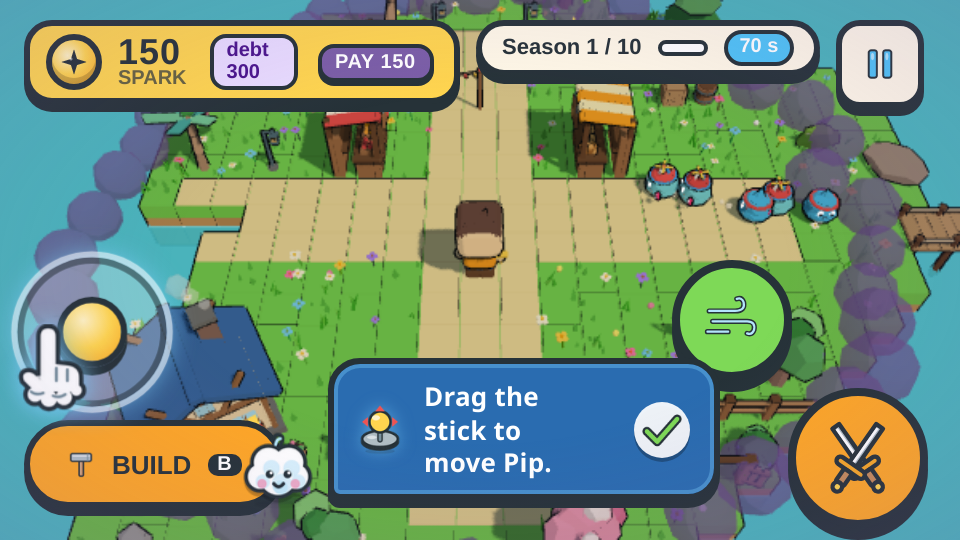
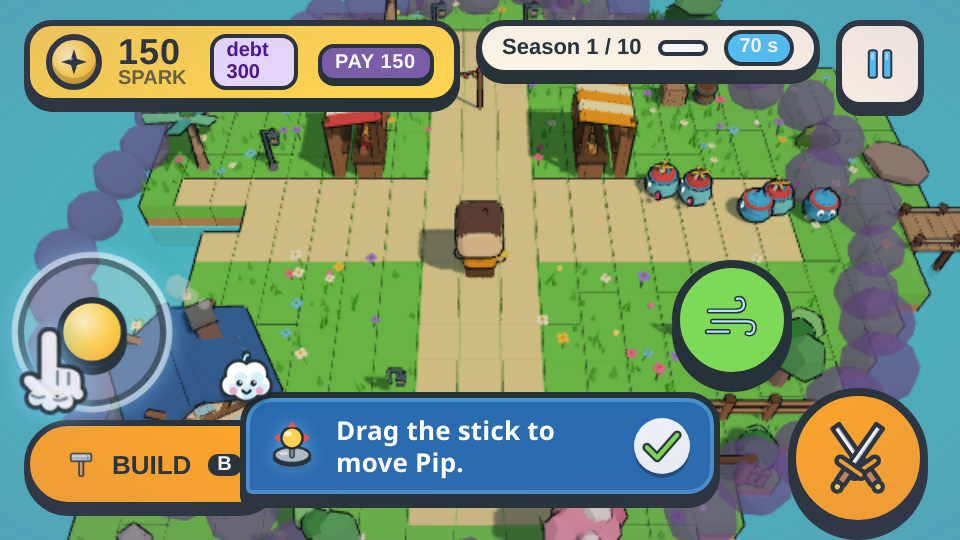
S61-B/E: aheadPoint pure helper + test (12/12), notch-safe tutor CSS

diff --git a/LUMEN/game/ui/tutor.css b/LUMEN/game/ui/tutor.css
@@ -4,7 +4,7 @@
 :root { --tut-bg: #2A6CB0; --tut-ink: #FFFFFF; --tut-edge: #7FD3FF; }   /* S59-E: opaque blue (was 90 % glass) so the black border reads on the busy island */
 
 .ll-tutor { position: absolute; z-index: 33; left: 50%; bottom: calc(max(10px, env(safe-area-inset-bottom)) + 84px); transform: translateX(-50%) translateY(10px);
-  display: flex; align-items: flex-end; gap: 6px; max-width: min(88vw, 400px);
+  display: flex; align-items: flex-end; gap: 6px; max-width: min(88vw, 400px, calc(100vw - env(safe-area-inset-left) - env(safe-area-inset-right) - 24px));
   opacity: 0; pointer-events: none; transition: opacity .22s ease, transform .32s cubic-bezier(.34,1.56,.64,1);
   font: 600 14px/1.25 system-ui, -apple-system, 'Segoe UI', sans-serif; letter-spacing: .1px; text-align: left; }
 .ll-tutor.show { opacity: 1; transform: translateX(-50%) translateY(0); }
@@ -53,7 +53,7 @@
 
 /* ---- S60-A: SIMULATED JOYSTICK (touch) / WASD keycaps (desktop). Drawn like the real stick in ui/touch.css; the cloud hand drags the knob up-right and back,
    so a phone player SEES that a thumb-stick exists and where to put the thumb. Steps aside (.hide) the moment the real stick is touched. */
-.ll-tutor-joy { position: absolute; z-index: 34; left: 15%; bottom: 128px; width: 100px; height: 100px; display: none; pointer-events: none; transition: opacity .2s; }
+.ll-tutor-joy { position: absolute; z-index: 34; left: max(15%, calc(env(safe-area-inset-left) + 12px)); bottom: 128px; width: 100px; height: 100px; display: none; pointer-events: none; transition: opacity .2s; }
 .ll-tutor-joy.show { display: block; }
 .ll-tutor-joy.hide { opacity: 0; }
 .ll-tutor-joy .tj-base, .ll-tutor-joy .tj-hand { display: none; }
@@ -76,21 +76,21 @@
 /* desktop: four keycaps in a WASD cross; W breathes ("forward") */
 .ll-tutor-joy .tj-keys { display: none; position: absolute; left: 0; top: 0; width: 100px; height: 80px; }
 .ll-tutor-joy.keys .tj-keys { display: block; }
-.ll-tutor-joy.keys { left: 24px; bottom: 150px; }
+.ll-tutor-joy.keys { left: max(24px, calc(env(safe-area-inset-left) + 12px)); bottom: 150px; }
 .tj-keys b { position: absolute; width: 30px; height: 30px; display: grid; place-items: center; border-radius: 8px; background: #fff; color: var(--ink, #263238); border: 3px solid var(--ink, #263238); box-shadow: 0 3px 0 var(--ink, #263238); font: 900 15px/1 system-ui, sans-serif; }
 .tj-keys .k-w { left: 35px; top: 0; animation: tj-key 1.4s ease-in-out infinite; } .tj-keys .k-a { left: 2px; top: 36px; } .tj-keys .k-s { left: 35px; top: 36px; } .tj-keys .k-d { left: 68px; top: 36px; }
 @keyframes tj-key { 0%, 100% { transform: translateY(0); background: #fff; } 50% { transform: translateY(3px); box-shadow: 0 0 0 var(--ink, #263238); background: var(--gold, #FFC93C); } }
 /* phone landscape: sits in the left thumb zone, above the Build button, clear of the tutor card (bottom-centre) and the 'drag to move' label */
-@media (max-height: 460px) { .ll-tutor-joy { left: 11%; bottom: 76px; width: 88px; height: 88px; } .ll-tutor-joy .tj-knob { width: 40px; height: 40px; margin: -20px 0 0 -20px; } .ll-tutor-joy .tj-hand, .ll-tutor-joy .tj-hand .ll-ico { width: 52px; height: 52px; margin-left: -26px; } .ll-tutor-joy.keys { left: 16px; bottom: 90px; } }
+@media (max-height: 460px) { .ll-tutor-joy { left: max(11%, calc(env(safe-area-inset-left) + 12px)); bottom: 76px; width: 88px; height: 88px; } .ll-tutor-joy .tj-knob { width: 40px; height: 40px; margin: -20px 0 0 -20px; } .ll-tutor-joy .tj-hand, .ll-tutor-joy .tj-hand .ll-ico { width: 52px; height: 52px; margin-left: -26px; } .ll-tutor-joy.keys { left: max(16px, calc(env(safe-area-inset-left) + 12px)); bottom: 90px; } }
 @media (prefers-reduced-motion: reduce) { .ll-tutor-joy .tj-base, .ll-tutor-joy .tj-ring, .ll-tutor-joy .tj-knob, .ll-tutor-joy .tj-hand, .ll-tutor-joy .tj-hand .ll-hand-a, .ll-tutor-joy .tj-hand .ll-hand-b, .tj-keys .k-w { animation: none; } .ll-tutor-joy .tj-hand .ll-hand-b { opacity: 0; } }
 body.tj-on .ll-joy-hint { opacity: 0 !important; }   /* S60-A: the drawn stick demo replaces the text label while it plays */
 
 /* S61-A: very small phones (<= 360 px tall, e.g. 640x360 / 568x320 / 480x270). The centred card is up to 56vw wide and ~71 px tall there, so the 88 px stick demo
    (left 11 %) used to touch it at 480x270. Smaller stick (72 px) pinned to the left margin: it ends at x = 82 px, the card starts at x >= 120 px. Travel scales with the stick. */
-@media (max-height: 360px) { .ll-tutor-joy { left: 10px; bottom: 68px; width: 72px; height: 72px; --tj-dx: 19px; --tj-dy: -21px; }
+@media (max-height: 360px) { .ll-tutor-joy { left: max(10px, calc(env(safe-area-inset-left) + 8px)); bottom: 68px; width: 72px; height: 72px; --tj-dx: 19px; --tj-dy: -21px; }
   .ll-tutor-joy .tj-knob { width: 34px; height: 34px; margin: -17px 0 0 -17px; }
   .ll-tutor-joy .tj-hand, .ll-tutor-joy .tj-hand .ll-ico { width: 44px; height: 44px; margin-left: -22px; margin-top: -4px; }
-  .ll-tutor-joy.keys { left: 12px; bottom: 76px; } }
+  .ll-tutor-joy.keys { left: max(12px, calc(env(safe-area-inset-left) + 8px)); bottom: 76px; } }
 
 /* S61-A2: on very short screens (<= 300 px tall: 480x270, 360x240) the Cloud avatar beside the card used to land on the BUILD button label. It becomes a small badge
    perched on the card's top-left corner instead, so the card is narrower-by-nothing and never reaches the Build button. */

diff --git a/LUMEN/game/src/Game.js b/LUMEN/game/src/Game.js
@@ -20,6 +20,7 @@ import { installVerbChain } from './systems/verbChain.js';
 import { installCrew } from './systems/crewJobs.js';   // T3: crew do visible jobs (arrival, post, idle/work loop, payoff pops, Ledger crew line)
 import { createScamJournal } from './systems/scamJournal.js';   // T5: sticker book of every deal met (spotted / fell for it)
 import { createJarRemind } from './systems/jarRemind.js';           // S59-H: tell the player to place the other jars; again next season if ignored
+import { aheadPoint } from './systems/aheadPoint.js';
 import { installCuriosity } from './systems/curiosityWire.js';   // T2: curiosity guide — registry sources (jars, stalls, signs, tills, Collectors, Baron, stranger, crew)
 import { WHEN as POWER_WHEN, lockedLine } from './systems/powerAnswers.js';   // T2b: every power press answers in ≤ 8 words
 import { installUnlocks, starsFor } from './systems/unlocks.js';                          // 41D: 2 starters + 4 earned by ledger stars
@@ -822,13 +823,8 @@ export function createLumenGame(game, opts = {}) {
     const near = (arr, pick) => { let best = null, bd = Infinity; for (const o of arr || []) { const q = pick ? pick(o) : xz(o); if (!q) continue; const d = hp ? Math.hypot(q.x - hp.x, q.z - hp.z) : 0; if (d < bd) { bd = d; best = q; } } return best; };
     if (kind === 'hero') return hp ? { x: hp.x, z: hp.z } : null;
     // S60-A: 'go there' marker for the Move step, ~6 u away (3 u landed on Pip's own legs). Tries screen-up (-z, toward the stalls), then the sides, then the plaza centre; always on LAND and clear of buildings.
-    if (kind === 'ahead') { if (!hp) return null; const isl = sb.island, occ = (x, z) => !!sb.build?.occupied?.(x, z); const D = 6;
-      // S61-B: 'up' is read from the CAMERA (ground-projected forward = screen-up), so a rotated camera still gets a marker that reads as 'go up the screen'. Mock / missing camera -> -z (the fixed ¾ rig looks down -z).
-      let ux = 0, uz = -1; try { const c = game.camera?.three || game.camera; const o = c?.position, t = game.camera?.lookAt; if (o && t && Number.isFinite(o.x) && Number.isFinite(t.x)) { const fx = t.x - o.x, fz = t.z - o.z, fl = Math.hypot(fx, fz); if (fl > 1e-3) { ux = fx / fl; uz = fz / fl; } } } catch (_) {}
-      const rot = (a, b, k) => [a * Math.cos(k) - b * Math.sin(k), a * Math.sin(k) + b * Math.cos(k)];   // rotate the (ux,uz) unit vector by k rad (0.64 rad ~ the 0.6/-0.8 diagonals)
-      const dirs = [0, 0.64, -0.64, 1.571, -1.571, 3.142].map((k) => rot(ux, uz, k));
-      for (const [dx, dz] of dirs) { const x = hp.x + dx * D, z = hp.z + dz * D; if ((!isl?.isLand || isl.isLand(x, z)) && !occ(x, z)) return { x, z, y: 0.2 }; }
-      const d = Math.hypot(hp.x, hp.z) || 1; return { x: hp.x - hp.x / d * Math.min(D, d), z: hp.z - hp.z / d * Math.min(D, d), y: 0.2 }; }
+    if (kind === 'ahead') { if (!hp) return null; const c = game.camera?.three || game.camera, isl = sb.island;   // S61-B: pure helper (src/systems/aheadPoint.js) reads screen-up from the camera, so a rotated camera still points up the screen
+      return aheadPoint({ hero: hp, camPos: c?.position, camLook: game.camera?.lookAt, isLand: isl?.isLand ? (x, z) => isl.isLand(x, z) : null, occupied: (x, z) => !!sb.build?.occupied?.(x, z), dist: 6 }); }
     if (kind === 'coin') { const q = near(sb.coins); return q ? { ...q, y: 0.35 } : null; }
     if (kind.startsWith('jar:')) { const m = sb.jarsWorld?.get?.(kind.slice(4)); const q = xz(m); return q ? { ...q, y: 1.4 } : null; }
     if (kind === 'jar') { const J = sb.jarsWorld; return near((J?.ids?.() || []).map((id) => J.get(id))); }

diff --git a/LUMEN/game/src/systems/aheadPoint.js b/LUMEN/game/src/systems/aheadPoint.js
@@ -1,0 +1,19 @@
+// S61-B: the Move step's "go there" marker, as a pure function so it can be unit-tested (tests/tutor.test.mjs).
+// "Up the screen" = the camera's forward vector projected on the ground (lookAt - position, y dropped). The fixed ¾ rig looks down -z, so with no
+// usable camera we fall back to (0,-1). Tries straight up, the two diagonals, the sides, then behind; each candidate must be LAND and clear of buildings.
+// Returns {x, z, y} or null when there is no hero.
+export function aheadPoint({ hero, camPos, camLook, isLand, occupied, dist = 6 } = {}) {
+  if (!hero || !Number.isFinite(hero.x) || !Number.isFinite(hero.z)) return null;
+  let ux = 0, uz = -1;
+  if (camPos && camLook && Number.isFinite(camPos.x) && Number.isFinite(camLook.x) && Number.isFinite(camPos.z) && Number.isFinite(camLook.z)) {
+    const fx = camLook.x - camPos.x, fz = camLook.z - camPos.z, fl = Math.hypot(fx, fz);
+    if (fl > 1e-3) { ux = fx / fl; uz = fz / fl; }
+  }
+  const rot = (k) => [ux * Math.cos(k) - uz * Math.sin(k), ux * Math.sin(k) + uz * Math.cos(k)];
+  for (const k of [0, 0.64, -0.64, Math.PI / 2, -Math.PI / 2, Math.PI]) {
+    const [dx, dz] = rot(k), x = hero.x + dx * dist, z = hero.z + dz * dist;
+    if ((!isLand || isLand(x, z)) && !(occupied && occupied(x, z))) return { x, z, y: 0.2 };
+  }
+  const d = Math.hypot(hero.x, hero.z) || 1;   // nothing free around Pip: head for the plaza centre
+  return { x: hero.x - hero.x / d * Math.min(dist, d), z: hero.z - hero.z / d * Math.min(dist, d), y: 0.2 };
+}
